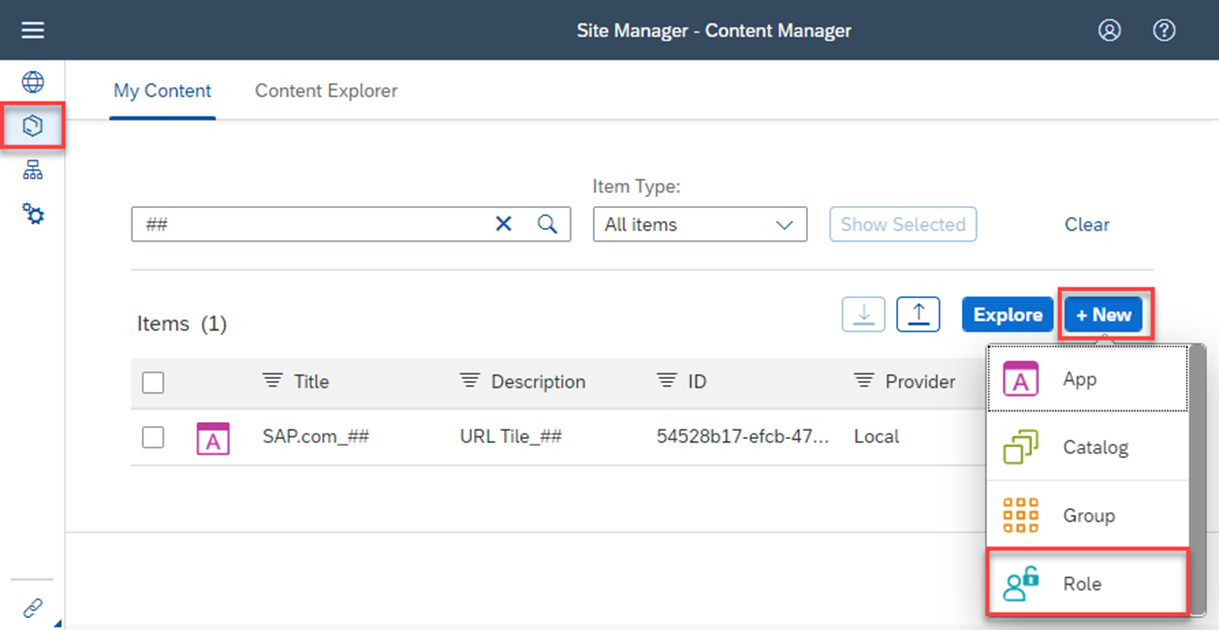
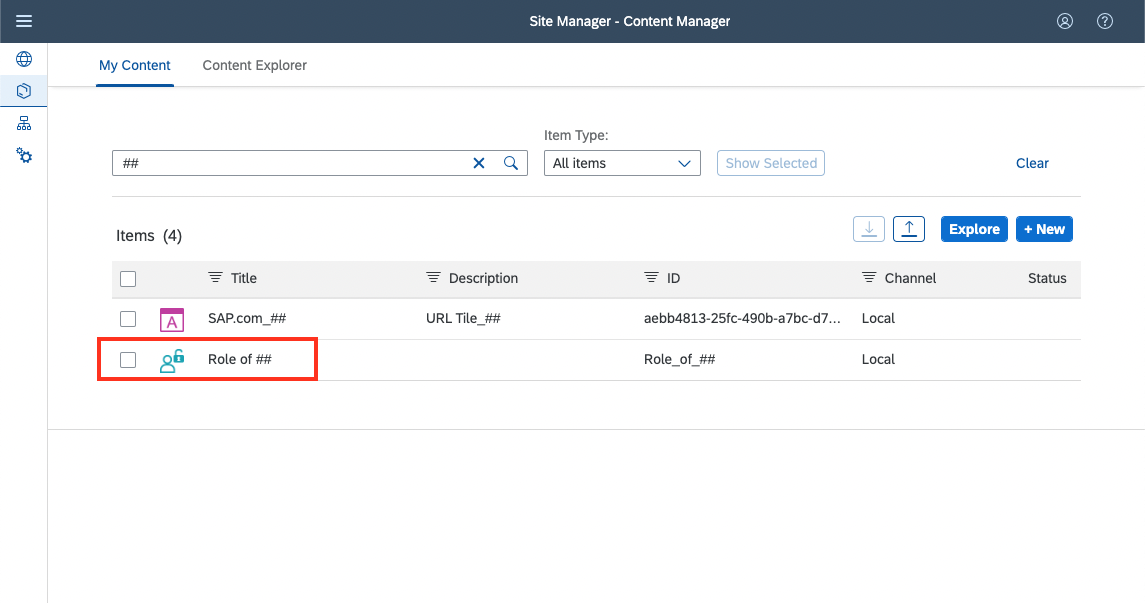
wording improvements

diff --git a/exercises/ex1/README.md b/exercises/ex1/README.md
@@ -2,7 +2,7 @@
 
 ## Prerequisites:
 
-- SAP BTP Subaccount with SAP Launchpad service instance enabled
+- SAP BTP Subaccount with SAP Launchpad Service instance enabled
 - Admin access for this subaccount
 - Assignment of Launchpad_Admin role collection to access the Site Manager
 
@@ -62,20 +62,17 @@
 5. Save the Tile via the button on the top right & return to the content manager. In a subaccount with a lot of items, you can search for your app by using title & description.
     (***Hint**: you can use your ## number to do that*)
 
-## Step 2: Create your own Role and assign your App to it
+## Step 2: Find your own Role and assign your App to it
 
-1. Back in the **Content Manager** click the **+ New** button and select Role from the dropdown. 
+> **NOTE:** For the SAP TechEd 2022 Hands-on Session, a role has already been created and assigned to you. You just need to assign your freshly created App to your role. When executing this tutorial outside of TechEd, it might be required to create a new Role or reuse an existing one.
+
+1. Back in the **Content Manager** search for your number to locate the Role that has been created for you. (*Make sure to use your number ## for identification*)
 
     <p align="center">
       <img src="./images/tut2-5.png" width="100%" />
     </p>
 
-2. You need to enter a Title and Description for your Role. (*Make sure to use your number ## for identification*)
-
-    | Name | Value | Description |
-    | ----------- | ------------------ | ------------------------------------ |
-    | Title       | `Role of ##`         | Defines the name of your Role. |
-    | Description | E.g. `My first Role` | Additional info to describe your Role. This is shown in the Site Managers app list. |
+2. Click on the entry to open it, click Edit afterwards on the top right.
 
 3. Once done, you can add your app in the **Assignments** pane on the right. You can use your ## to find it, then press the **+ icon** to add it to your role.
 
@@ -85,9 +82,11 @@
 
 4. Make sure to Save your role via **Save**. Once your role is saved it will be created as a Role Collection in the SAP BTP Cockpit.
 
-    > **NOTE:** The term/concept of Role in Site Manager maps to the term/concept of Role Collection in SAP BTP cockpit.
+> **NOTE:** For the SAP TechEd 2022 Hands-on Session, the role has already been assigned to you, thus please skip the next point. When executing this tutorial outside of TechEd, you can follow the last point of Step 2 to assign the role to you in BTP Cockpit.
 
-5. At this point you should return to the BTP Cockpit to assign the new Role Collection to your User: Open the **Security > Users** section and search for your user. Click on your user, then **Assign Role Collection**.
+1. At this point you should return to the BTP Cockpit to assign the new Role Collection to your User: Open the **Security > Users** section and search for your user. Click on your user, then **Assign Role Collection**.
+
+    > **NOTE:** The term/concept of Role in Site Manager maps to the term/concept of Role Collection in SAP BTP cockpit.
 
    <p align="center">
      <img src="./images/tut2-7.png" width="100%" />

diff --git a/README.md b/README.md
@@ -9,15 +9,24 @@ This repository contains the material for the SAP TechEd 2022 session called DT2
 The SAP Mobile Start app is your native entry point to SAP’s mobile universe.
 Discover how to set up and configure SAP Mobile Start with SAP S/4HANA and how to add your native apps. You will understand all the prerequisites and necessary steps.
 
+> **NOTE:** The product **SAP Build Work Zone standard** is formerly known as SAP Launchpad Service. Please be aware that some screenshots or systems in this might Hands-on material still contain the former name.
+
 ## Requirements
 
-The requirements to follow the exercises in this repository are...
+The requirements to follow the exercises in this repository are:
+
+- SAP BTP Subaccount with SAP Launchpad Service entitlement
+- Admin access for this subaccount
+- SAP S/4HANA system connected to the SAP BTP Subaccount
+- Content Exposure set up for the SAP S/4HANA system
+- Roles assigned to the user in SAP S/4HANA matching the exposed content
+- A mobile phone (iOS or Android) capable of running SAP Mobile Start
 
 ## Exercises
 
-> **NOTE:** For the SAP TechEd 2022 Hands-On Session we have already prepared the landscape with the SAP Launchpad service. Please start directly with [Exercise 1](../ex1) as an in-person participant.
+> **NOTE:** For the SAP TechEd 2022 Hands-on Session we have already prepared the landscape with the SAP Launchpad Service. Please start directly with [Exercise 1](../ex1) as an in-person participant.
 
-- [Exercise 0 - Access the SAP Launchpad service](exercises/ex0/) (skip on TechEd 2022 Hands-On)
+- [Exercise 0 - Access the SAP Launchpad Service](exercises/ex0/) (skip on TechEd 2022 Hands-on)
 - [Exercise 1 - Create a Basic Site Manager Setup](exercises/ex1/)
 - [Exercise 2 - Create a Content Channel to import SAP S/4HANA Content](exercises/ex2/)
 - [Exercise 3 - Create Native App Tile for SAP Mobile Start](exercises/ex3/)

diff --git a/exercises/ex2/README.md b/exercises/ex2/README.md
@@ -2,12 +2,12 @@
 
 ## Prerequisites:
 
-- SAP BTP Subaccount with SAP Launchpad service instance enabled
+- SAP BTP Subaccount with SAP Launchpad Service instance enabled
 - Assignment of Launchpad_Admin role collection to access the Site Manager
-- SAP S/4HANA System connected to the SAP BTP Subaccount
-- Content got exposed from the SAP S/4HANA System
-- Destinations pointing to this SAP S/4HANA System for both Run-Time and Design-Time
-- End-user needs to have a matching User on the SAP S/4HANA System with fitting authorizations for the exposed content.
+- SAP S/4HANA system connected to the SAP BTP Subaccount
+- Content got exposed from the SAP S/4HANA system
+- Destinations pointing to this SAP S/4HANA system for both Run-Time and Design-Time
+- End-user needs to have a matching User on the SAP S/4HANA system with fitting authorizations for the exposed content.
 
 ## Step 1: Create a Content Channel
 
@@ -17,7 +17,7 @@
     <img src="./images/tut3-1.png" width="100%" />
     </p>
 
-    You will see a list of all existing Content Channels available. In a blank SAP Launchpad service instance, there would only be one entry for **HTML5 Apps**. This is a default channel that can be used to import apps that are deployed directly to the SAP BTP subaccount's HTML5 repository.
+    You will see a list of all existing Content Channels available. In a blank SAP Launchpad Service instance, there would only be one entry for **HTML5 Apps**. This is a default channel that can be used to import apps that are deployed directly to the SAP BTP subaccount's HTML5 repository.
 
 2. Create your own Content Channel by clicking the **+ New** button in the top right. In the upcoming popup you can define the technical details. Fill in the values as given below:
 

diff --git a/exercises/ex0/README.md b/exercises/ex0/README.md
@@ -1,11 +1,11 @@
 
-# Access the SAP Launchpad service
+# Access the SAP Launchpad Service
 
-> **NOTE:** The steps of this exercise was already executed for your user for the SAP TechEd 2022 Hands-On Session. Please continue with [Exercise 1](../ex1) as an in-person participant. You can refer to this exercise if you are doing the Hands-On Workshop outside of TechEd 2022.  
+> **NOTE:** The steps of this exercise was already executed for your user for the SAP TechEd 2022 Hands-on Session. Please continue with [Exercise 1](../ex1) as an in-person participant. You can refer to this exercise if you are doing the Hands-on Workshop outside of TechEd 2022.  
 
 ## Prerequisites:
 
-- SAP BTP Subaccount with SAP Launchpad service entitlement
+- SAP BTP Subaccount with SAP Launchpad Service entitlement
 - Admin access for this Subaccount
 
 ## Step 1: Create Launchpad service instance
@@ -52,7 +52,7 @@ Adding the Launchpad_Admin Role Collection to a user allows them to access the L
 
  > **NOTE:** You might need to wait a few minutes or perform a re-login to the SAP BTP Cockpit for the new role collection to become active. Before that you might face an Access Denied error if you try to access the Launchpad service application.
 
-## Step 3: Access the SAP Launchpad service Site Manager
+## Step 3: Access the SAP Launchpad Service Site Manager
 
 The Site Manager is an admin application for creating and maintaining launchpad sites and content.
 

diff --git a/exercises/ex5/README.md b/exercises/ex5/README.md
@@ -3,10 +3,10 @@
 ## Prerequisites:
 
 - iOS Device with SAP Mobile Start
-- SAP BTP Subaccount with SAP Launchpad service instance enabled
+- SAP BTP Subaccount with SAP Launchpad Service instance enabled
 - Assignment of Launchpad_Admin role collection to access the Site Manager
-- SAP S/4HANA System connected to the SAP BTP Subaccount
-- Destinations pointing to this SAP S/4HANA System for both Run-Time and Design-Time
+- SAP S/4HANA system connected to the SAP BTP Subaccount
+- Destinations pointing to this SAP S/4HANA system for both Run-Time and Design-Time
 - Roles assigned to the user in SAP S/4HANA
 
 > **Note:** SAP Mobile Start currently only supports voice commands on the iOS App.

diff --git a/exercises/ex3/README.md b/exercises/ex3/README.md
@@ -2,7 +2,7 @@
 
 ## Prerequisites:
 
-- SAP BTP Subaccount with SAP Launchpad service instance enabled
+- SAP BTP Subaccount with SAP Launchpad Service instance enabled
 - Assignment of Launchpad_Admin role collection to access the Site Manager
 
 ## Step 1: Create the Native App Tile (example for SAP SuccessFactors)

diff --git a/exercises/ex4/README.md b/exercises/ex4/README.md
@@ -2,7 +2,7 @@
 
 ## Prerequisites:
 
-- SAP BTP Subaccount with SAP Launchpad service instance enabled
+- SAP BTP Subaccount with SAP Launchpad Service instance enabled
 - Assignment of Launchpad_Admin role collection to access the Site Manager
 
 ## Step 1: Create the News feed tile (example for SAP News)
